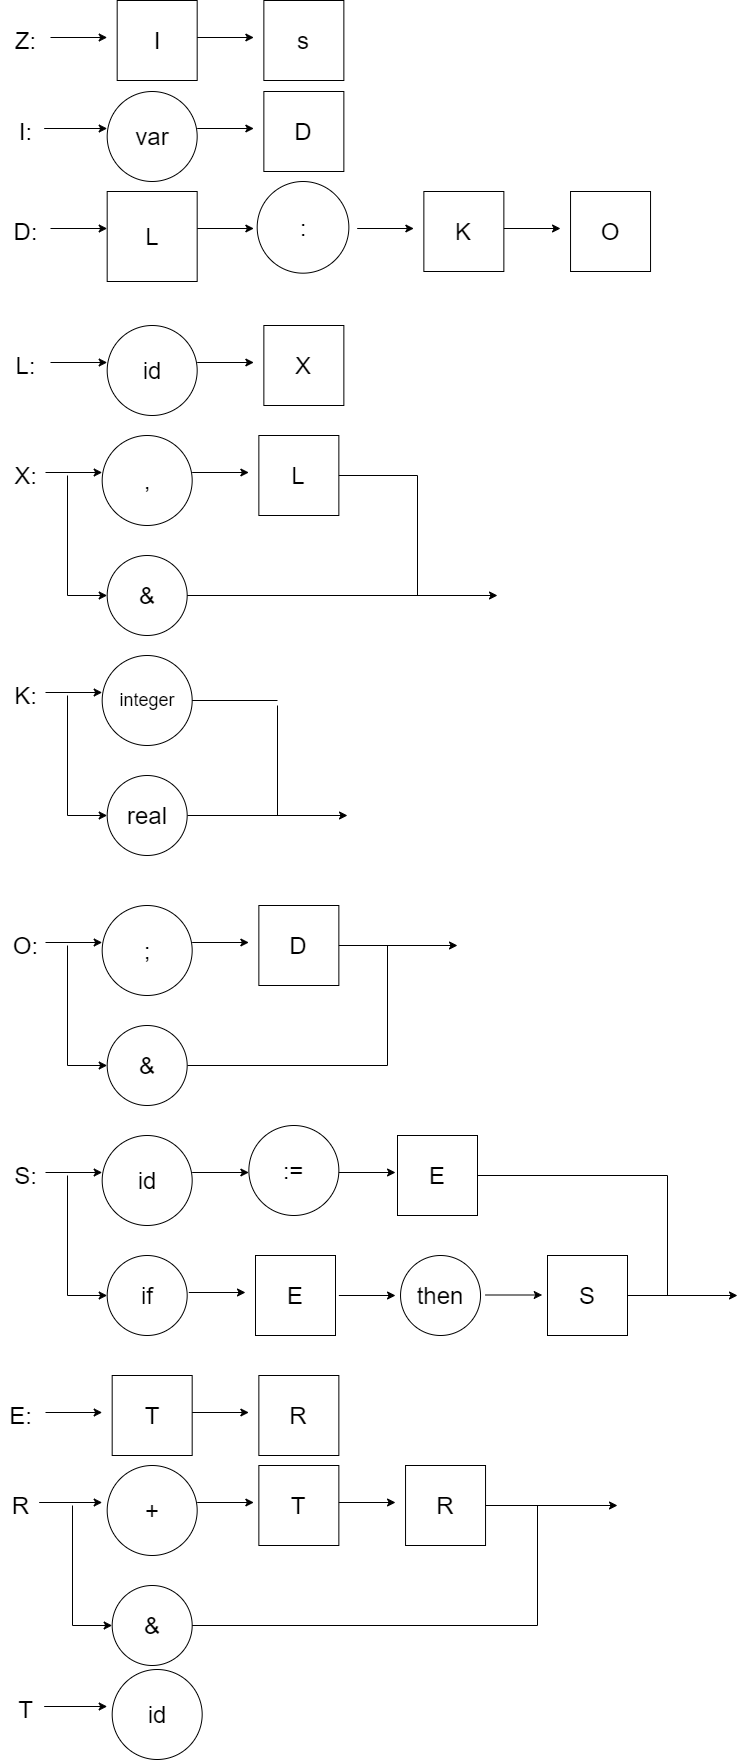
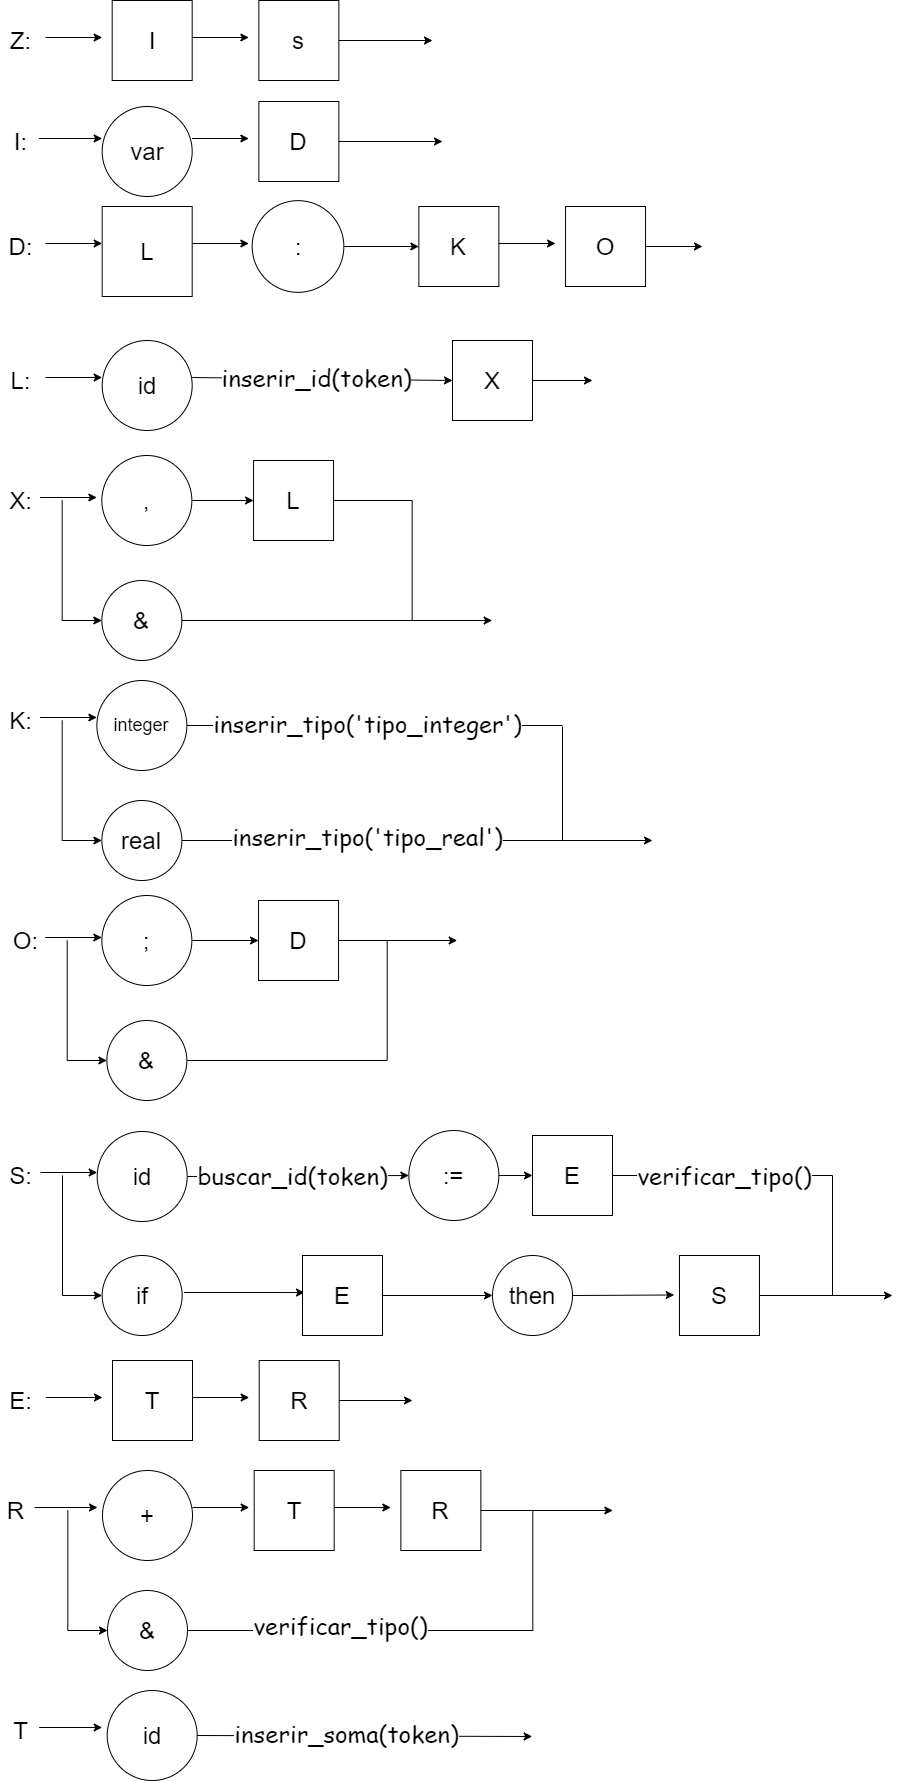
Implementado ações semânicas no Grafo Sintático

diff --git a/analisadorSintatico.py b/analisadorSintatico.py
@@ -34,7 +34,7 @@ def analisador_sintatico():
         global posicao, token
         if token[posicao][1] == 'identificador':
             #Inicio Analisador Semantico
-            analisadorSemantico.inserirID(token[posicao][0])
+            analisadorSemantico.inserir_id(token[posicao][0])
             #Fim Analisador Semantico
             posicao += 1
             x()
@@ -54,7 +54,7 @@ def analisador_sintatico():
         else:
             raise EnvironmentError("Erro Sintático, é esperado 'integer' ou 'real', '" + token[posicao][0] + "' não é válido.")
         #Inicio Analisador Semantico
-        analisadorSemantico.inserirTipo(token[posicao-1][1])    
+        analisadorSemantico.inserir_tipo(token[posicao-1][1])    
         #Fim Analisador Semantico
 
     def o():
@@ -67,7 +67,7 @@ def analisador_sintatico():
         global posicao, token
         if token[posicao][1] == 'identificador':
             #Inicio Analisador Semantico
-            if not analisadorSemantico.buscar(token[posicao][0]):
+            if not analisadorSemantico.buscar_id(token[posicao][0]):
                 raise EnvironmentError("Erro Semantico, atribuição em identificador não declarada.")
             analisadorSemantico.inserir_soma(token[posicao][0])
             #Fim Analisador Semantico

diff --git a/analisadorSemantico.py b/analisadorSemantico.py
@@ -4,17 +4,17 @@ tabelaDeSimbolos = {}
 global listaSoma
 listaSoma = []
 
-def inserirID(id):
+def inserir_id(id):
     global tabelaDeSimbolos
     tabelaDeSimbolos[id] = '' 
 
-def inserirTipo(tipo):
+def inserir_tipo(tipo):
     global tabelaDeSimbolos
     for i in tabelaDeSimbolos:
         if tabelaDeSimbolos[i] == '':
             tabelaDeSimbolos[i] = tipo
 
-def buscar(id):
+def buscar_id(id):
     global tabelaDeSimbolos
     if id in tabelaDeSimbolos:
         return True
